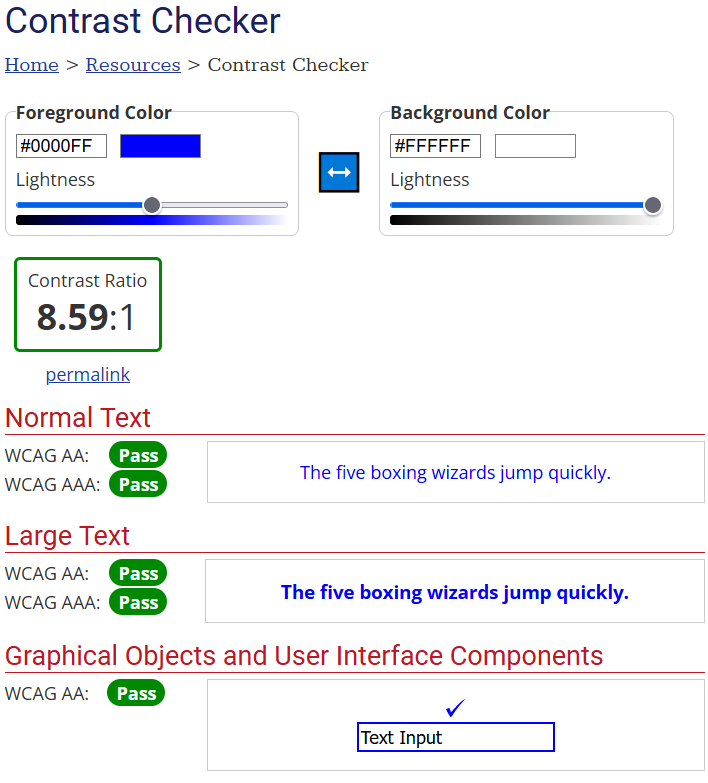
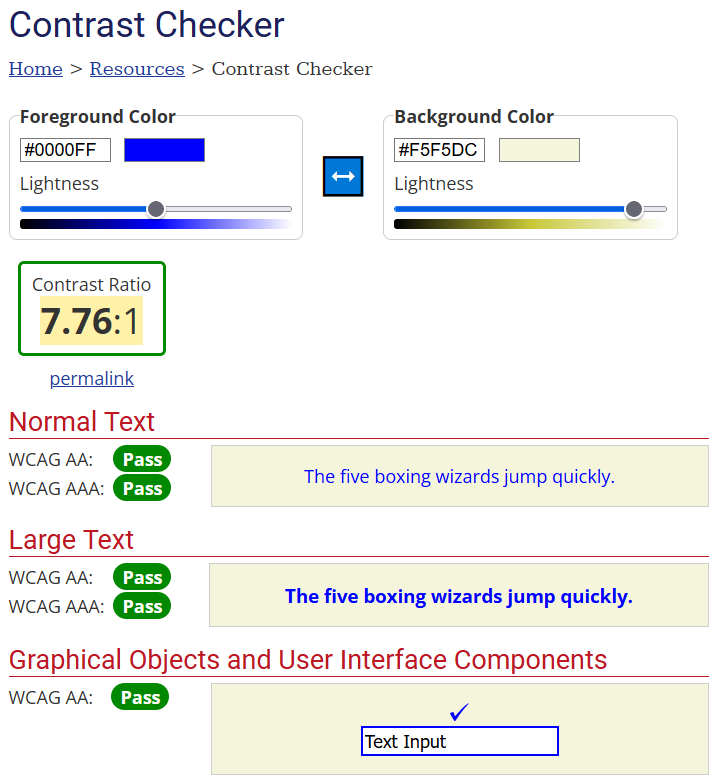
Phase 11 final edit redoing CSS colors to match appropriate guidelines.

diff --git a/css/stylesheet.css b/css/stylesheet.css
@@ -2,3 +2,20 @@
 h1 {
     color: #0000ff;
 }
+
+h2 {
+    color: #0000ff;
+}
+
+h3 {
+    color: #0000ff;
+}
+
+
+p {
+    color: #0000ff;
+}
+
+body{
+    background-color: #f5f5dc;
+}
